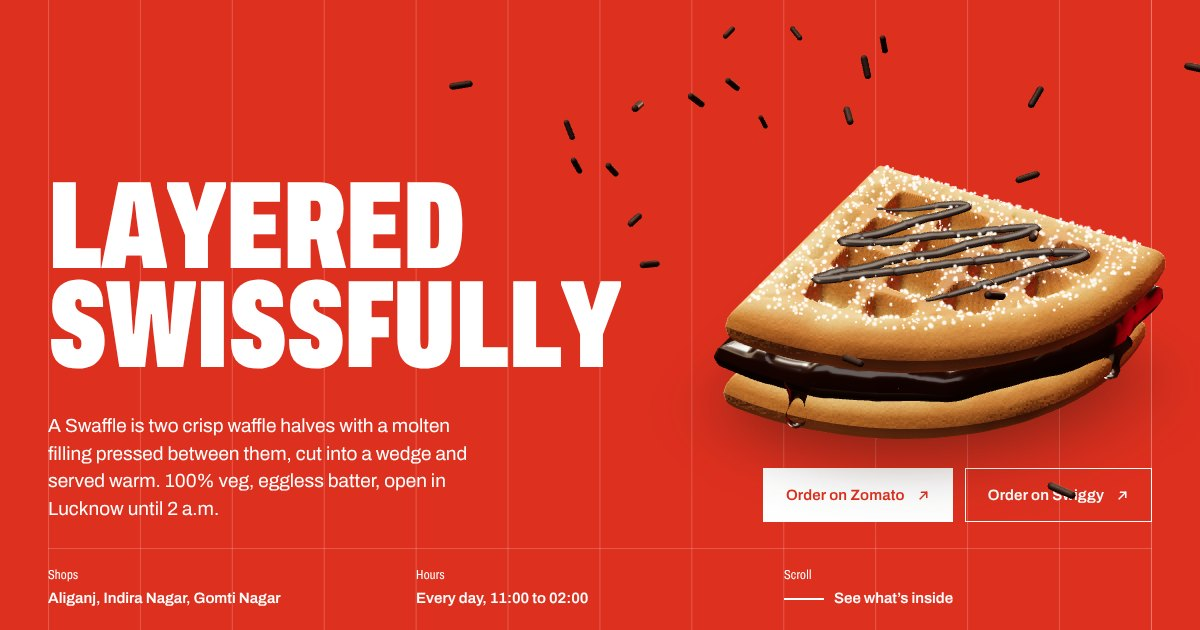
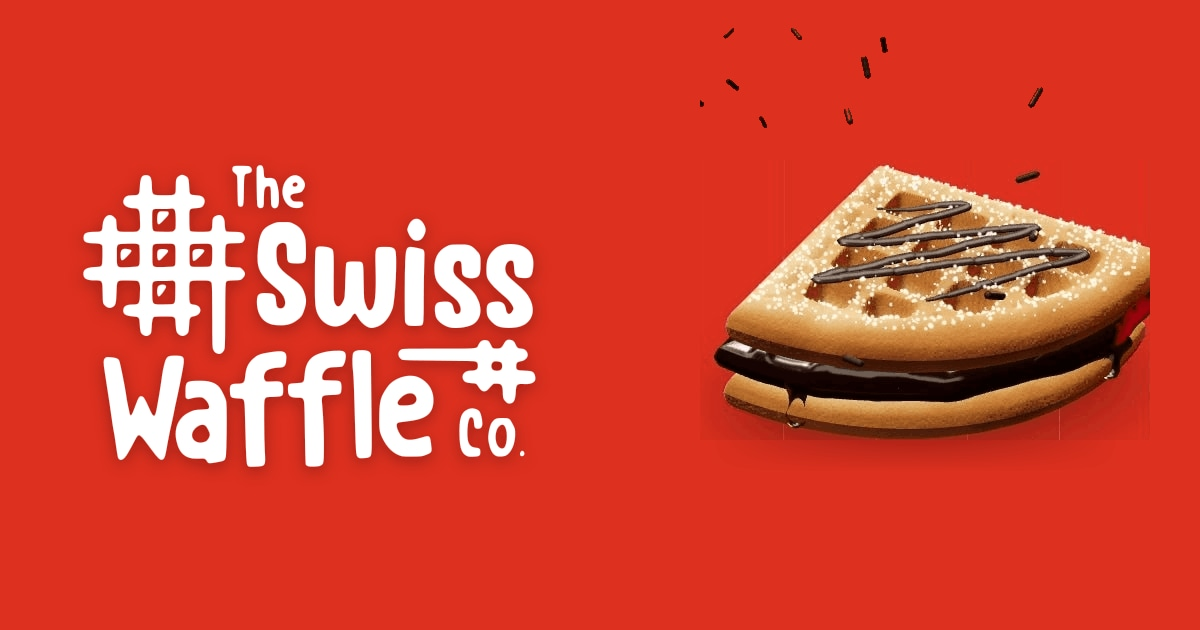
feat: implement clean OpenGraph preview and square brand assets

diff --git a/app/layout.tsx b/app/layout.tsx
@@ -2,7 +2,7 @@ import type { Metadata, Viewport } from "next";
 
 export const metadata: Metadata = {
   metadataBase: new URL("https://theswisswaffle.co"),
-  title: "The Swiss Waffle Co.",
+  title: "The Swiss Waffle Co. — Layered Swissfully",
   description:
     "Layered Swissfully. Two crisp waffle halves with a molten filling, cut into a wedge and served warm in Lucknow until 2 a.m.",
   icons: {
@@ -11,10 +11,35 @@ export const metadata: Metadata = {
   },
   openGraph: {
     type: "website",
-    title: "The Swiss Waffle Co.",
+    locale: "en_IN",
+    url: "https://theswisswaffle.co",
+    siteName: "The Swiss Waffle Co.",
+    title: "The Swiss Waffle Co. — Layered Swissfully",
     description:
       "Layered Swissfully. Two crisp waffle halves with a molten filling, cut into a wedge and served warm in Lucknow until 2 a.m.",
-    images: ["/assets/img/og-image.jpg"],
+    images: [
+      {
+        url: "/opengraph-image.png",
+        width: 1200,
+        height: 630,
+        alt: "The Swiss Waffle Co.",
+        type: "image/png",
+      },
+    ],
+  },
+  twitter: {
+    card: "summary_large_image",
+    title: "The Swiss Waffle Co. — Layered Swissfully",
+    description:
+      "Layered Swissfully. Two crisp waffle halves with a molten filling, cut into a wedge and served warm in Lucknow until 2 a.m.",
+    images: [
+      {
+        url: "/opengraph-image.png",
+        width: 1200,
+        height: 630,
+        alt: "The Swiss Waffle Co.",
+      },
+    ],
   },
 };
 

diff --git a/app/page.tsx b/app/page.tsx
@@ -1158,7 +1158,7 @@ export default function Home() {
           <div id="founders" style={{ position: "absolute", top: 0, left: 0 }} aria-hidden="true" />
           <header className="f-head">
             <h2 id="f-h" className="h2 f-names">
-              Ankit Agarwal &amp; Paridhi Bathwal
+              Ankit &amp; Paridhi
             </h2>
             <p className="f-role">Founders and Chief Swaffle Officers</p>
           </header>
